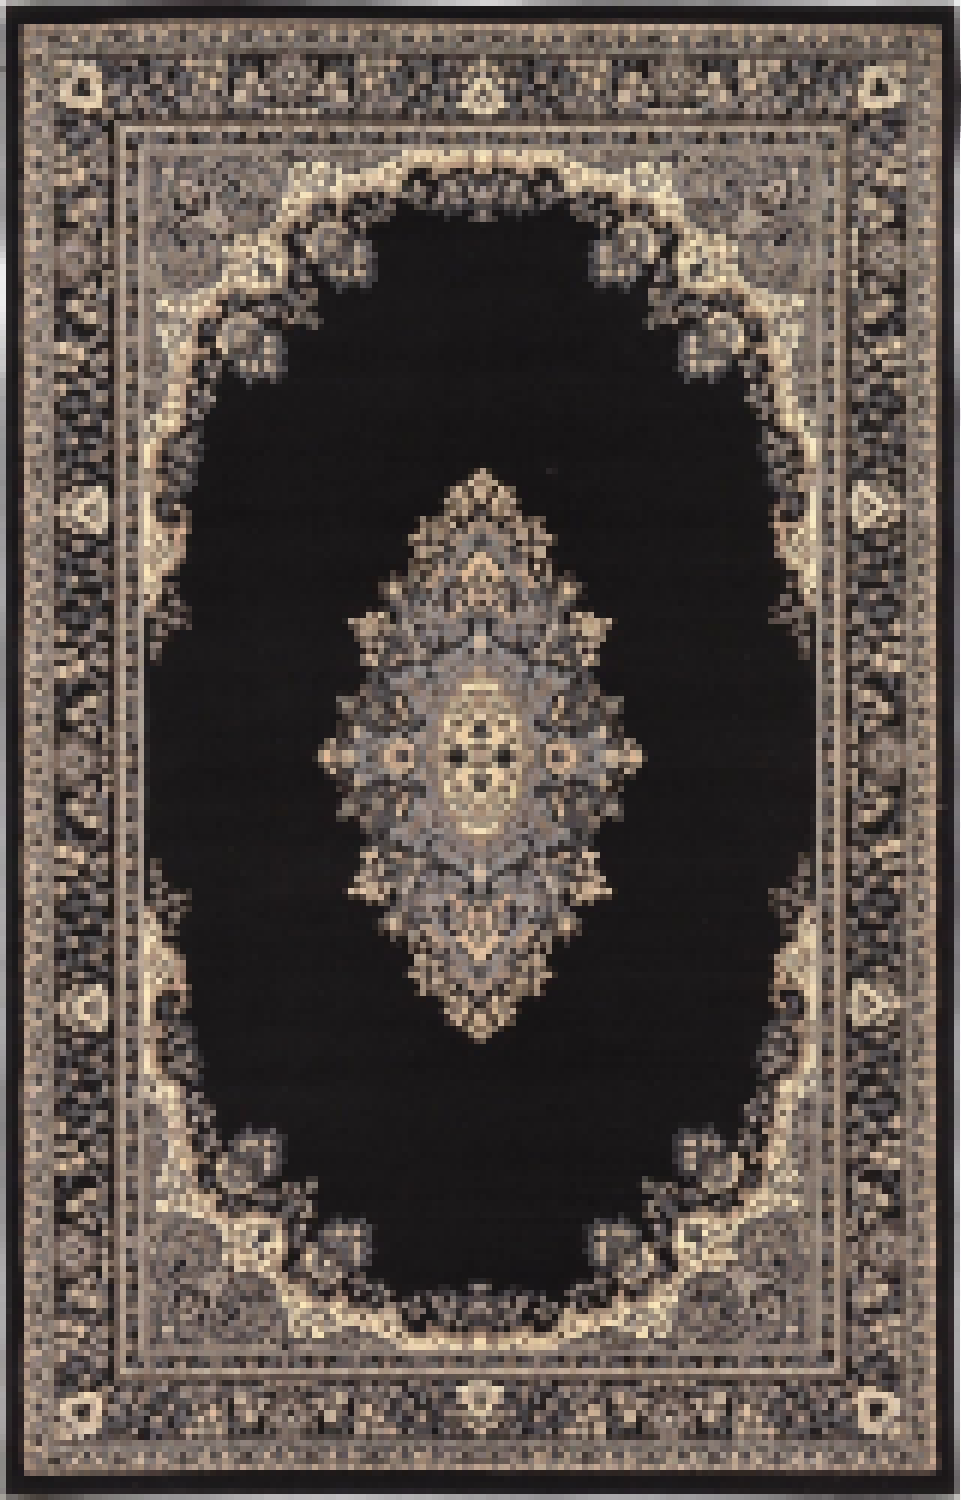
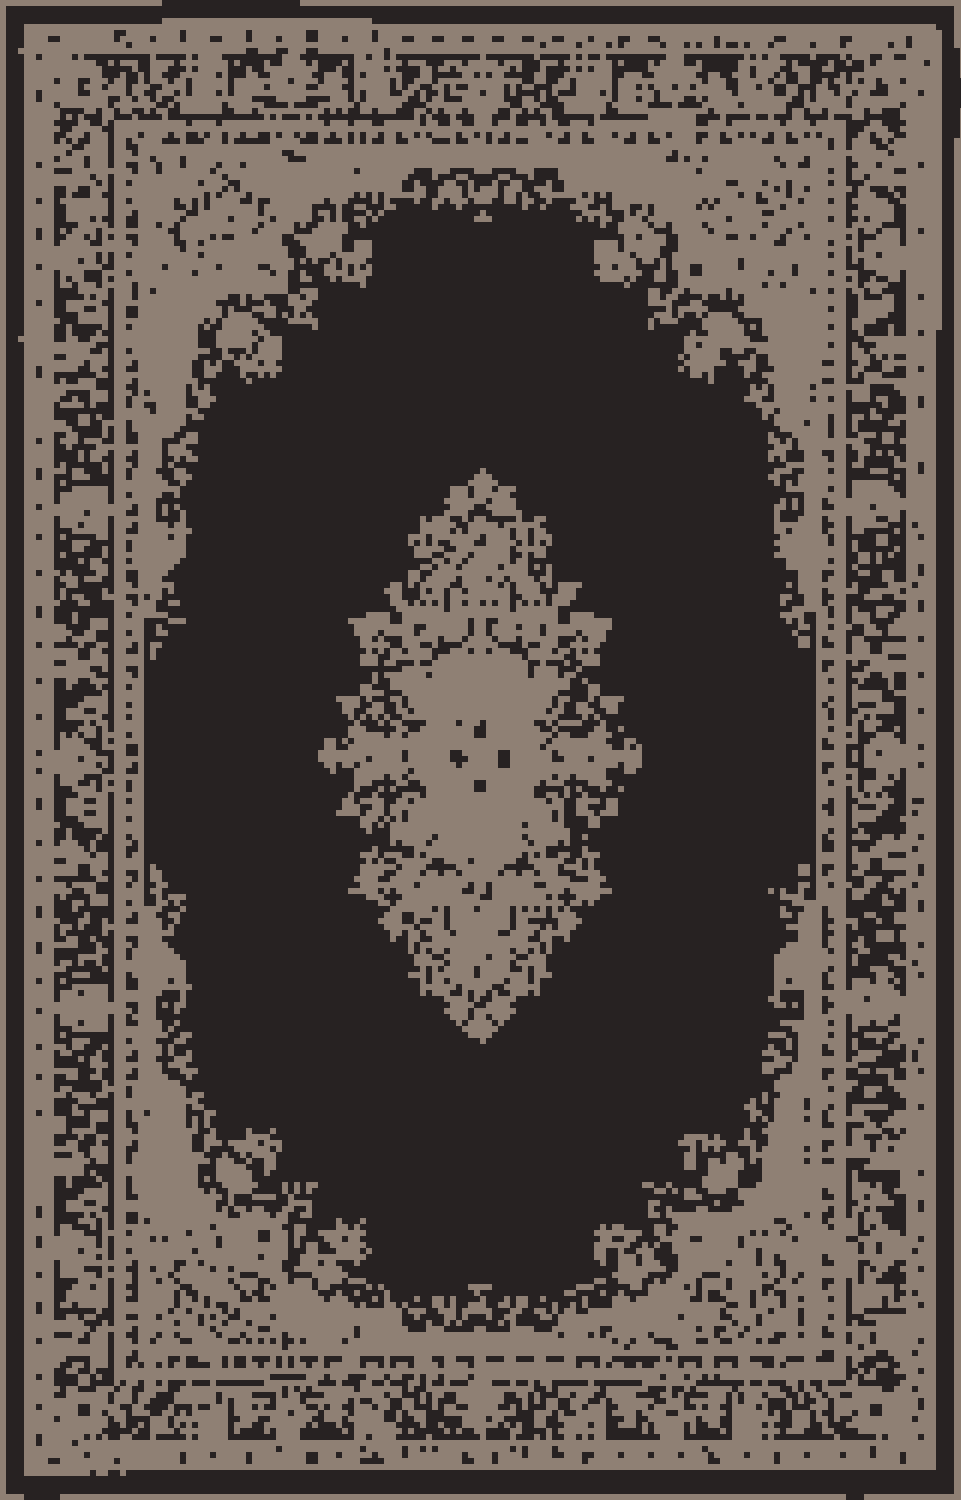
feat: add smart pixeling

diff --git a/main.py b/main.py
@@ -1,4 +1,6 @@
-#!/usr/bin/env python3
+# python3 -m venv path/to/venv
+# source path/to/venv/bin/activate
+# python3 -m pip install xyz
 """
 Pixelfy Tool - Converts images to pixelated versions by averaging colors in 5x5 pixel blocks
 """
@@ -7,6 +9,8 @@ import argparse
 import os
 from PIL import Image
 import numpy as np
+from sklearn.cluster import KMeans
+from collections import defaultdict
 
 
 def average_color(block):
@@ -43,7 +47,55 @@ def average_color(block):
     return tuple(map(int, avg_color))
 
 
-def pixelfy_image(image_path, output_path=None, block_size=5):
+def smart_color_reduction(img_array, max_colors=32):
+    """
+    Reduce the number of colors in an image using K-means clustering
+    
+    Args:
+        img_array: numpy array of the image
+        max_colors: maximum number of colors to use
+        
+    Returns:
+        numpy array: image with reduced color palette
+    """
+    # Reshape the image to 2D array of pixels
+    height, width, channels = img_array.shape
+    pixels = img_array.reshape(-1, channels)
+    
+    # Remove fully transparent pixels from clustering
+    if channels == 4:
+        non_transparent = pixels[:, 3] > 0
+        if np.sum(non_transparent) == 0:
+            return img_array  # All pixels are transparent
+        
+        # Only cluster non-transparent pixels
+        visible_pixels = pixels[non_transparent]
+        
+        # Perform K-means clustering on RGB values only
+        kmeans = KMeans(n_clusters=min(max_colors, len(visible_pixels)), random_state=42, n_init=10)
+        kmeans.fit(visible_pixels[:, :3])
+        
+        # Get cluster centers (the new colors)
+        cluster_centers = kmeans.cluster_centers_.astype(int)
+        
+        # Assign new colors to pixels
+        new_pixels = pixels.copy()
+        new_pixels[non_transparent, :3] = cluster_centers[kmeans.labels_]
+        
+        return new_pixels.reshape(height, width, channels)
+    else:
+        # For RGB images, cluster all pixels
+        kmeans = KMeans(n_clusters=min(max_colors, len(pixels)), random_state=42, n_init=10)
+        kmeans.fit(pixels)
+        
+        # Get cluster centers and reshape back
+        cluster_centers = kmeans.cluster_centers_.astype(int)
+        new_pixels = cluster_centers[kmeans.labels_]
+        
+        return new_pixels.reshape(height, width, channels)
+
+
+def pixelfy_image(image_path, output_path=None, block_size=5, smart=False, max_colors=32):
     """
     Pixelfy an image by averaging colors in block_size x block_size pixel squares
     
@@ -51,6 +103,8 @@ def pixelfy_image(image_path, output_path=None, block_size=5):
         image_path (str): Path to input image
         output_path (str): Path for output image (optional)
         block_size (int): Size of pixel blocks (default: 5)
+        smart (bool): Use smart color reduction (default: False)
+        max_colors (int): Maximum number of colors for smart mode (default: 32)
         
     Returns:
         str: Path to the output image
@@ -89,6 +143,11 @@ def pixelfy_image(image_path, output_path=None, block_size=5):
             # Fill the entire block with the average color
             output_array[y:y_end, x:x_end] = avg_color
     
+    # Apply smart color reduction if requested
+    if smart:
+        print(f"Applying smart color reduction (max {max_colors} colors)...")
+        output_array = smart_color_reduction(output_array, max_colors)
+    
     # Convert back to PIL Image
     output_img = Image.fromarray(output_array.astype(np.uint8), 'RGBA')
     
@@ -123,6 +182,17 @@ def main():
         default=5,
         help="Size of pixel blocks (default: 5)"
     )
+    parser.add_argument(
+        "-s", "--smart",
+        action="store_true",
+        help="Use smart color reduction to minimize distinct colors"
+    )
+    parser.add_argument(
+        "-c", "--max-colors",
+        type=int,
+        default=32,
+        help="Maximum number of colors for smart mode (default: 32)"
+    )
     
     args = parser.parse_args()
     
@@ -135,7 +205,9 @@ def main():
         output_path = pixelfy_image(
             args.input_image,
             args.output,
-            args.block_size
+            args.block_size,
+            args.smart,
+            args.max_colors
         )
         print(f"Successfully pixelfied image with {args.block_size}x{args.block_size} blocks!")
         return 0

diff --git a/README.md b/README.md
@@ -7,6 +7,7 @@ A Python tool that converts images to pixelated versions by averaging colors in 
 - Converts any image format to a pixelfied version
 - Uses 5x5 pixel blocks by default (configurable)
 - Averages RGB colors within each block
+- **Smart pixelation** - reduces color palette for more cohesive look
 - **Preserves transparency** - transparent backgrounds stay transparent
 - Handles various image formats (JPEG, PNG, GIF, etc.)
 - Command-line interface with options
@@ -43,10 +44,26 @@ python main.py input_image.jpg -b 10
 
 This will use 10x10 pixel blocks instead of the default 5x5.
 
+### Smart Pixelation
+
+```bash
+python main.py input_image.jpg -s
+```
+
+This applies color clustering to reduce the number of distinct colors, creating a more cohesive pixelated effect.
+
+### Custom Color Limit
+
+```bash
+python main.py input_image.jpg -s -c 16
+```
+
+Limit the output to 16 colors maximum.
+
 ### All Options
 
 ```bash
-python main.py input_image.jpg -o output_image.png -b 8
+python main.py input_image.jpg -o output_image.png -b 8 -s -c 24
 ```
 
 ## Command Line Arguments
@@ -54,6 +71,8 @@ python main.py input_image.jpg -o output_image.png -b 8
 - `input_image`: Path to the input image file (required)
 - `-o, --output`: Path for the output image (optional, default: input_pixelfied.png)
 - `-b, --block-size`: Size of pixel blocks (optional, default: 5)
+- `-s, --smart`: Use smart color reduction to minimize distinct colors
+- `-c, --max-colors`: Maximum number of colors for smart mode (optional, default: 32)
 
 ## How It Works
 
@@ -62,7 +81,8 @@ python main.py input_image.jpg -o output_image.png -b 8
 3. For each block, it calculates the average color of all pixels in that block
 4. For transparent areas, it properly handles alpha channel averaging
 5. It replaces the entire block with the average color (including transparency)
-6. The result is saved as a new PNG image with transparency support
+6. **Smart mode**: If enabled, applies K-means clustering to reduce the color palette
+7. The result is saved as a new PNG image with transparency support
 
 ## Example
 
@@ -75,3 +95,4 @@ The tool will create a pixelated effect where each 5x5 pixel square is replaced 
 - Python 3.6+
 - Pillow (PIL)
 - NumPy
+- scikit-learn (for smart pixelation)
